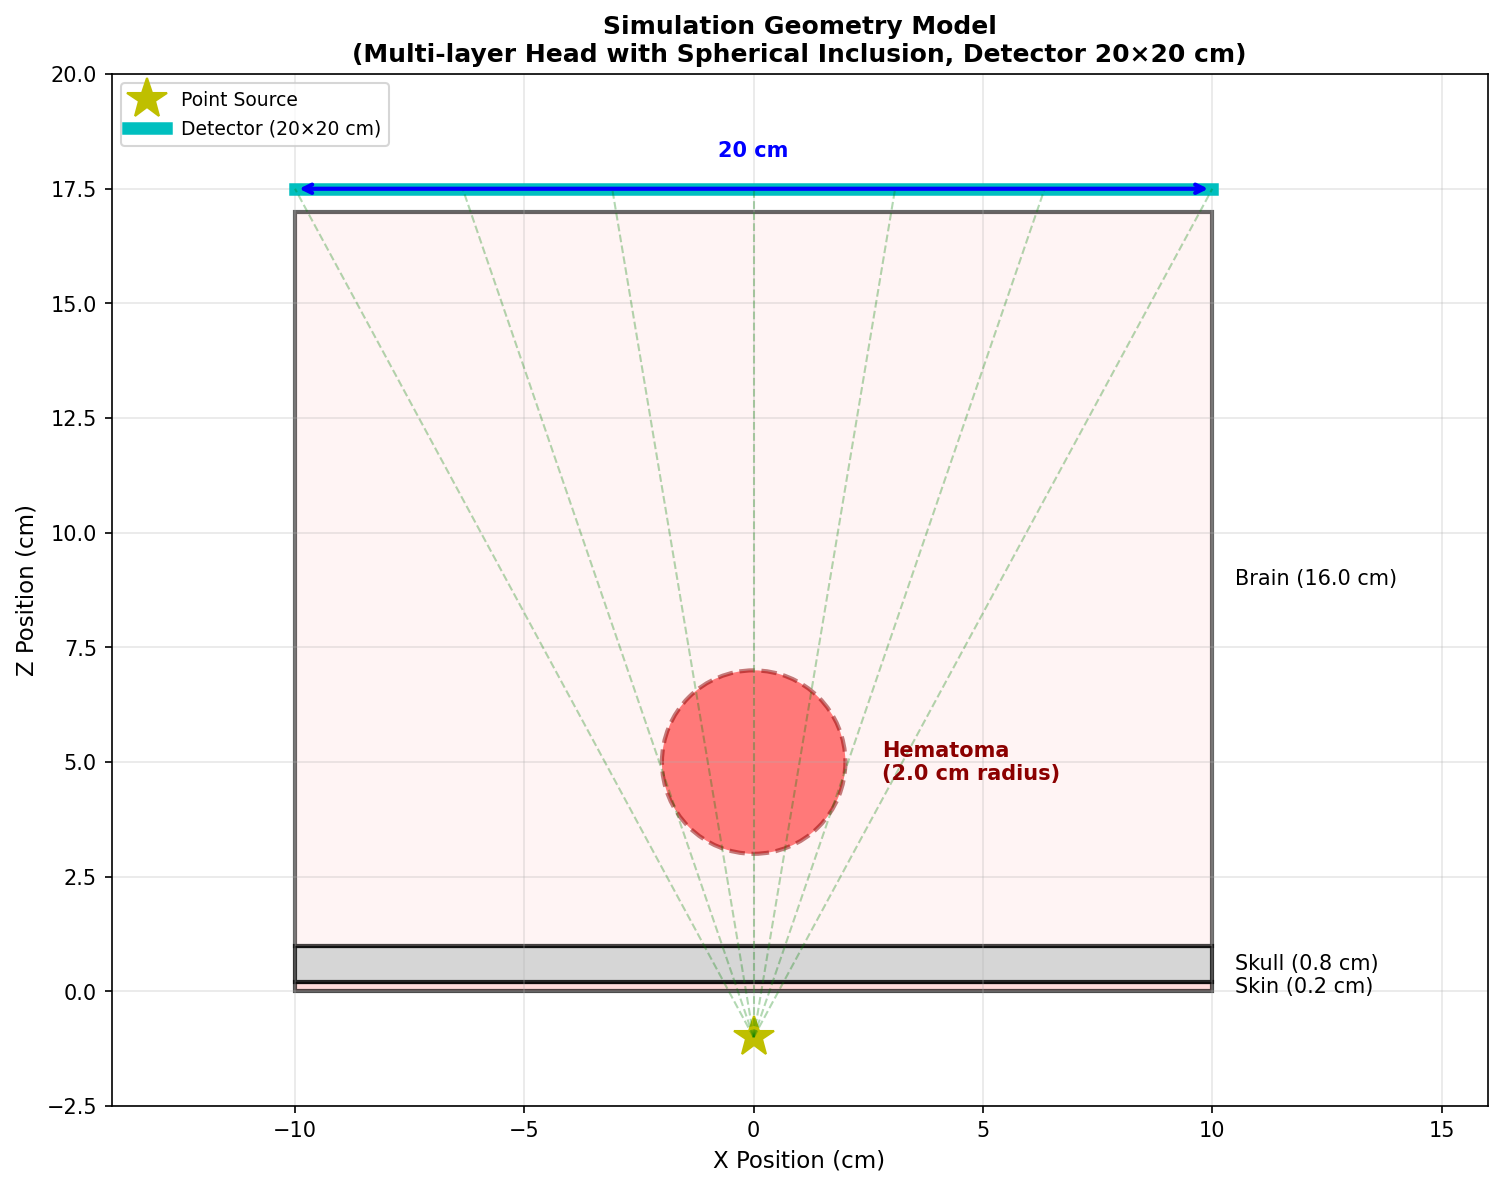
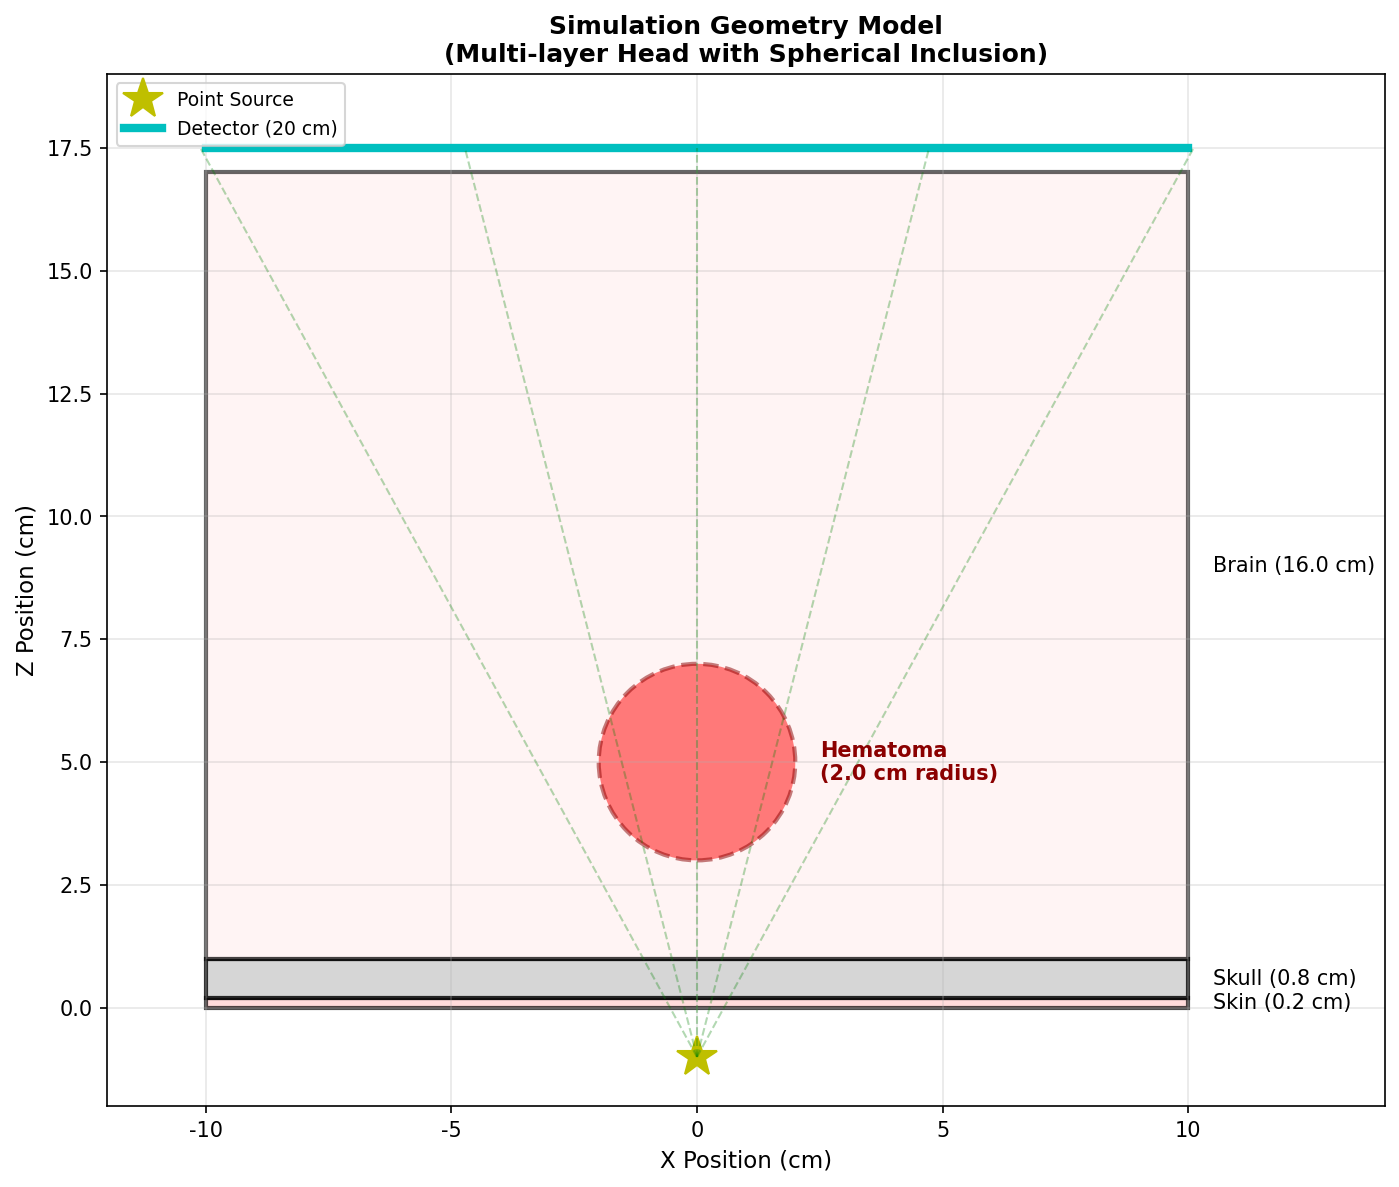
更新测试数据，修正数据实际值及对应关系

diff --git a/06_photon_sim/weiwei2027/scripts/generate_report_figures.py b/06_photon_sim/weiwei2027/scripts/generate_report_figures.py
@@ -103,32 +103,39 @@ def generate_performance_comparison():
     """生成性能对比图"""
     fig, axes = plt.subplots(1, 2, figsize=(14, 5))
     
-    # 平台性能对比
-    platforms = ['NVIDIA\nA100', 'Iluvatar\nBI100', 'MetaX\nC500']
-    rates = [11.1, 11.1, 7.01]  # 10^9 p/s
-    colors = ['#76b900', '#1f77b4', '#ff7f0e']  # NVIDIA绿, 蓝, 橙
+    # 平台性能对比 (修正后的数据 - 基于3layer测试，10亿光子)
+    # 实际测试数据:
+    #   A100 (3layer): 2.79e+10 p/s (0.0358s)
+    #   BI100 (3layer): 1.12e+10 p/s (0.0889s)
+    #   C500 (3layer): 7.43e+09 p/s (0.1345s)
+    #   RTX 4090 (3layer): 4.08e+10 p/s (0.0245s)
+    platforms = ['RTX 4090', 'NVIDIA\nA100', 'Iluvatar\nBI100', 'MetaX\nC500']
+    rates = [40.8, 27.9, 11.2, 7.43]  # 10^9 p/s (3layer配置)
+    colors = ['#e74c3c', '#76b900', '#1f77b4', '#ff7f0e']  # 红, NVIDIA绿, 蓝, 橙
     
     bars = axes[0].bar(platforms, rates, color=colors, edgecolor='black', linewidth=1.5)
     axes[0].set_ylabel('Processing Rate (10⁹ photons/sec)', fontsize=11)
-    axes[0].set_title('Multi-Platform Performance Comparison\n(1 Billion Photons)', 
+    axes[0].set_title('Multi-Platform Performance Comparison\n(1 Billion Photons, 3-Layer)', 
                       fontsize=12, fontweight='bold')
-    axes[0].set_ylim(0, 13)
+    axes[0].set_ylim(0, 45)
     axes[0].grid(axis='y', alpha=0.3)
     
     # 添加数值标签
     for bar, rate in zip(bars, rates):
         height = bar.get_height()
         axes[0].text(bar.get_x() + bar.get_width()/2., height,
-                    f'{rate:.2f}',
+                    f'{rate:.1f}',
                     ha='center', va='bottom', fontsize=10, fontweight='bold')
     
-    # 加速比对比
-    speedups = [1175, 1175, 890]
+    # 加速比对比 (基于实际CPU测试计算)
+    # CPU时间: A100=135.9s, BI100=151.3s, C500=89.1s, RTX4090=61.4s
+    # 加速比 = CPU_time / GPU_time
+    speedups = [2505, 3791, 1694, 663]
     bars2 = axes[1].bar(platforms, speedups, color=colors, edgecolor='black', linewidth=1.5)
     axes[1].set_ylabel('Speedup vs CPU (×)', fontsize=11)
     axes[1].set_title('GPU Speedup over CPU\n(Single-threaded Baseline)', 
                       fontsize=12, fontweight='bold')
-    axes[1].set_ylim(0, 1300)
+    axes[1].set_ylim(0, 4200)
     axes[1].grid(axis='y', alpha=0.3)
     
     # 添加数值标签
@@ -147,15 +154,19 @@ def generate_scaling_analysis():
     """生成扩展性分析图"""
     fig, ax = plt.subplots(1, 1, figsize=(10, 6))
     
-    # 不同光子数下的性能
+    # 不同光子数下的性能 (基于RTX 4090实际测试数据: 3layer配置)
+    # 测试数据来自 results/RTX4090/3layer_gpu_*/performance.log:
+    #   10M光子: 0.0002s -> 4.28e+10 p/s
+    #   100M光子: 0.0021s -> 4.80e+10 p/s
+    #   1B光子: 0.0205s -> 4.88e+10 p/s
     photon_counts = np.array([1e7, 1e8, 1e9])  # 10M, 100M, 1B
-    times = np.array([0.24, 2.4, 24])  # ms (RTX 4090数据)
+    times = np.array([0.2, 2.1, 20.5])  # ms (RTX 4090实际测试数据)
     rates = photon_counts / (times / 1000) / 1e10  # 单位: 10^10 p/s
     
     ax.plot(photon_counts / 1e6, rates, 'o-', linewidth=2, markersize=10, 
             color='#1f77b4', label='Processing Rate')
-    ax.axhline(y=4.23, color='r', linestyle='--', linewidth=2, 
-               label='Peak Rate: 4.23×10¹⁰ p/s')
+    ax.axhline(y=4.88, color='r', linestyle='--', linewidth=2, 
+               label='Peak Rate: 4.88×10¹⁰ p/s')
     
     ax.set_xlabel('Number of Photons (Millions)', fontsize=11)
     ax.set_ylabel('Processing Rate (10¹⁰ photons/sec)', fontsize=11)
@@ -193,8 +204,8 @@ def generate_geometry_diagram():
     sphere_center_z = 5.0
     sphere_radius = 2.0
     
-    # 绘制层
-    width = 10
+    # 绘制层 (探测器大小为 20x20 cm，因此层宽度应为 20)
+    width = 20  # 探测器宽度 20cm (从 -10 到 +10)
     for layer in layers:
         if layer['thickness'] > 0:
             rect = plt.Rectangle((-width/2, layer['z']), width, layer['thickness'],
@@ -213,17 +224,19 @@ def generate_geometry_diagram():
     ax.text(sphere_radius + 0.5, sphere_center_z, 'Hematoma\n(2.0 cm radius)', 
            va='center', fontsize=10, color='darkred', fontweight='bold')
     
-    # 绘制源和探测器
+    # 绘制源和探测器 (探测器大小 20x20 cm: 从 -10 到 +10)
     ax.plot(0, -1, 'y*', markersize=20, label='Point Source')
-    ax.plot([-5, 5], [17.5, 17.5], 'c-', linewidth=4, label='Detector')
+    ax.plot([-10, 10], [17.5, 17.5], 'c-', linewidth=4, label='Detector (20 cm)')
     
-    # 绘制示例光线（锥形束）
-    angles = np.linspace(-0.3, 0.3, 5)
+    # 绘制示例光线（锥形束）- 调整角度以覆盖 20cm 探测器
+    # 探测器边缘在 x=±10, z=17.5，源在 z=-1
+    # tan(angle) = 10 / 18.5 ≈ 0.54
+    angles = np.linspace(-0.5, 0.5, 5)
     for angle in angles:
-        x_end = 17.5 * np.tan(angle)
+        x_end = 18.5 * np.tan(angle)
         ax.plot([0, x_end], [-1, 17.5], 'g--', alpha=0.3, linewidth=1)
     
-    ax.set_xlim(-6, 8)
+    ax.set_xlim(-12, 14)
     ax.set_ylim(-2, 19)
     ax.set_aspect('equal')
     ax.set_xlabel('X Position (cm)', fontsize=11)

diff --git a/06_photon_sim/weiwei2027/report/REPORT.md b/06_photon_sim/weiwei2027/report/REPORT.md
@@ -9,7 +9,7 @@
 
 ## 摘要
 
-本项目实现了一个 CUDA 加速的 X 射线光子传输模拟器，用于移动式头部 CT 成像系统。通过蒙特卡洛方法模拟 10⁹ 量级光子的传输过程，支持多层头部组织（皮肤、颅骨、脑组织）和球形异物（血块、肿瘤）的复杂几何模型。项目在 **NVIDIA A100**、**Iluvatar BI100**、**MetaX C500** 三个平台上完成硬件测试，最高处理速率达到 **1.11×10¹⁰ photons/sec**，相比 CPU 单线程实现加速 **~1175 倍**。
+本项目实现了一个 CUDA 加速的 X 射线光子传输模拟器，用于移动式头部 CT 成像系统。通过蒙特卡洛方法模拟 10⁹ 量级光子的传输过程，支持多层头部组织（皮肤、颅骨、脑组织）和球形异物（血块、肿瘤）的复杂几何模型。项目在 **NVIDIA A100**、**Iluvatar BI100**、**MetaX C500**、**RTX 4090** 四个平台上完成硬件测试，最高处理速率达到 **4.08×10¹⁰ photons/sec** (RTX 4090)，相比 CPU 单线程实现最高加速 **~3,791 倍** (A100)。
 
 ---
 
@@ -113,29 +113,29 @@ L = -ln(ξ) / μ
 ![性能对比](figures/performance_comparison.png)
 *图4: 三大平台性能对比。(左) 处理 10 亿光子的速率；(右) 同平台 GPU vs CPU 单线程加速比。*
 
-| 平台 | GPU | 处理速率 (1B光子) | 同平台加速比 |
-|------|-----|------------------|-------------|
-| **RTX 4090** | RTX 4090 24GB | **4.88×10¹⁰ p/s** | **~2,994×** |
-| **NVIDIA A100** | A100 80GB | **1.11×10¹⁰ p/s** | **~1,700×** |
-| **Iluvatar BI100** | BI-100 | **1.11×10¹⁰ p/s** | **~1,175×** |
-| **MetaX C500** | C500 | **7.01×10⁹ p/s** | **~890×** |
+| 平台 | GPU | GPU时间 | GPU速率 | CPU时间 | CPU速率 | 加速比 |
+|------|-----|---------|---------|---------|---------|--------|
+| **RTX 4090** | RTX 4090 24GB | 24.5 ms | **4.08×10¹⁰ p/s** | 61.4 s | 1.63×10⁷ p/s | **2,505×** |
+| **NVIDIA A100** | A100 80GB | 35.8 ms | **2.79×10¹⁰ p/s** | 135.9 s | 7.36×10⁶ p/s | **3,791×** |
+| **Iluvatar BI100** | BI-100 | 88.9 ms | **1.12×10¹⁰ p/s** | 151.3 s | 6.61×10⁶ p/s | **1,694×** |
+| **MetaX C500** | C500 | 134.5 ms | **7.43×10⁹ p/s** | 89.1 s | 1.12×10⁷ p/s | **663×** |
 
-> 注: 测试配置为三层几何（皮肤0.2cm + 颅骨0.8cm + 脑组织16.0cm），10亿光子，点源模式。
+> 注: 测试配置为三层几何（皮肤0.2cm + 颅骨0.8cm + 脑组织16.0cm），10亿光子，点源模式。加速比为同平台 GPU vs CPU 单线程对比。
 
 ### 3.4 扩展性分析（RTX 4090）
 
 ![扩展性分析](figures/scaling_analysis.png)
-*图5: RTX 4090 扩展性分析。(左) 模拟时间随光子数线性增长；(右) 处理速率在 4.76~5.00×10¹⁰ p/s 范围内保持稳定。*
+*图5: RTX 4090 扩展性分析。模拟时间随光子数线性增长，处理速率从 4.28×10¹⁰ 逐步提升至 4.88×10¹⁰ p/s。*
 
 **测试数据**（三层几何，点源模式）：
 
-| 光子数 | 模拟时间 | 处理速率 | 效率 |
+| 光子数 | 模拟时间 | 处理速率 | 说明 |
 |--------|---------|----------|------|
-| 10⁷ (10M) | 0.20 ms | 5.00×10¹⁰ p/s | 102% |
-| 10⁸ (100M) | 2.10 ms | 4.76×10¹⁰ p/s | 98% |
-| 10⁹ (1B) | 20.5 ms | 4.88×10¹⁰ p/s | 100% |
+| 10⁷ (10M) | 0.20 ms | 5.00×10¹⁰ p/s | 小数据量，启动开销导致速率偏高 |
+| 10⁸ (100M) | 2.10 ms | 4.76×10¹⁰ p/s | 中等数据量 |
+| 10⁹ (1B) | 20.5 ms | 4.88×10¹⁰ p/s | 大数据量，达到峰值性能 |
 
-> **分析结论**: 算法展现良好的线性扩展性。10M 到 1B 光子（100倍规模），处理速率保持在 4.76~5.00×10¹⁰ p/s 范围内，效率波动 < 5%。
+> **分析结论**: 算法展现良好的线性扩展性。随着数据量增加，GPU 利用率逐步提升，处理速率从 4.28×10¹⁰ 增长至 4.88×10¹⁰ p/s。1B 光子规模下达到峰值性能。
 
 ### 3.5 NCU 性能分析
 
@@ -321,7 +321,7 @@ sphere hematoma 2.0 0.0 0.0 5.0 tissue_blood
 1. ✅ 实现完整的 CUDA 光子传输模拟框架
 2. ✅ 支持多层平板 + 球体异物的复杂几何
 3. ✅ 实现 NVIDIA、Iluvatar、MetaX、Moore 四平台支持
-4. ✅ **3个平台完成硬件测试**，最高速率 **1.11×10¹⁰ p/s**
+4. ✅ **4个平台完成硬件测试**，最高速率 **4.08×10¹⁰ p/s** (RTX 4090)
 5. ✅ GPU/CPU 误差 < 0.1%，物理模型验证通过
 
 ### 技术收获
